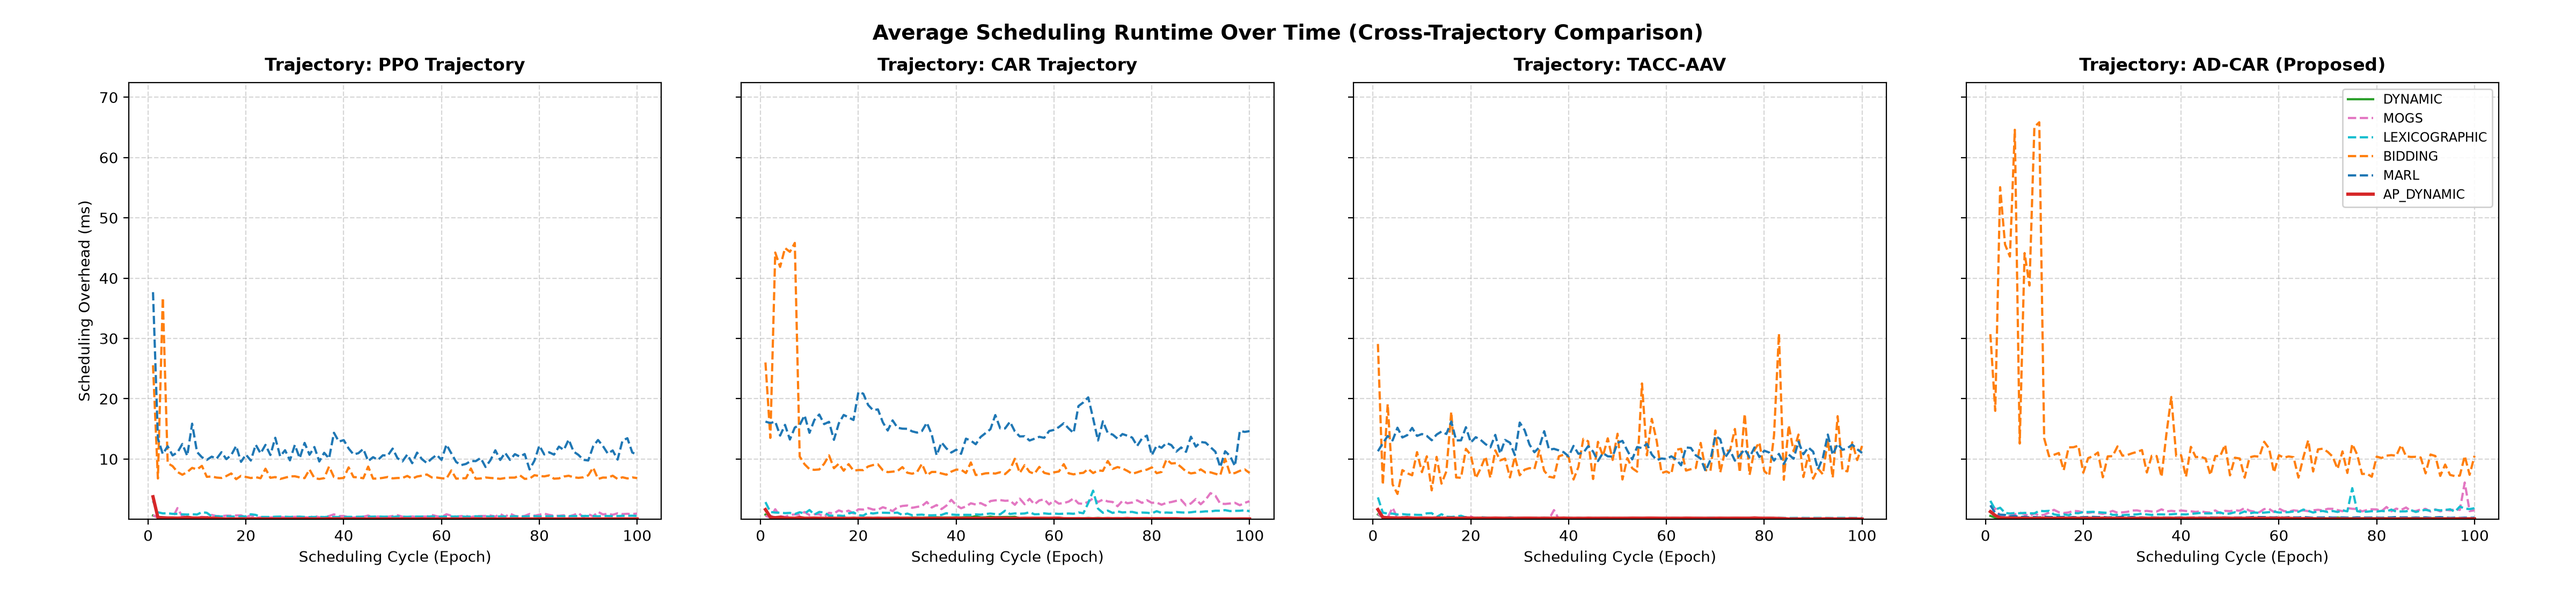
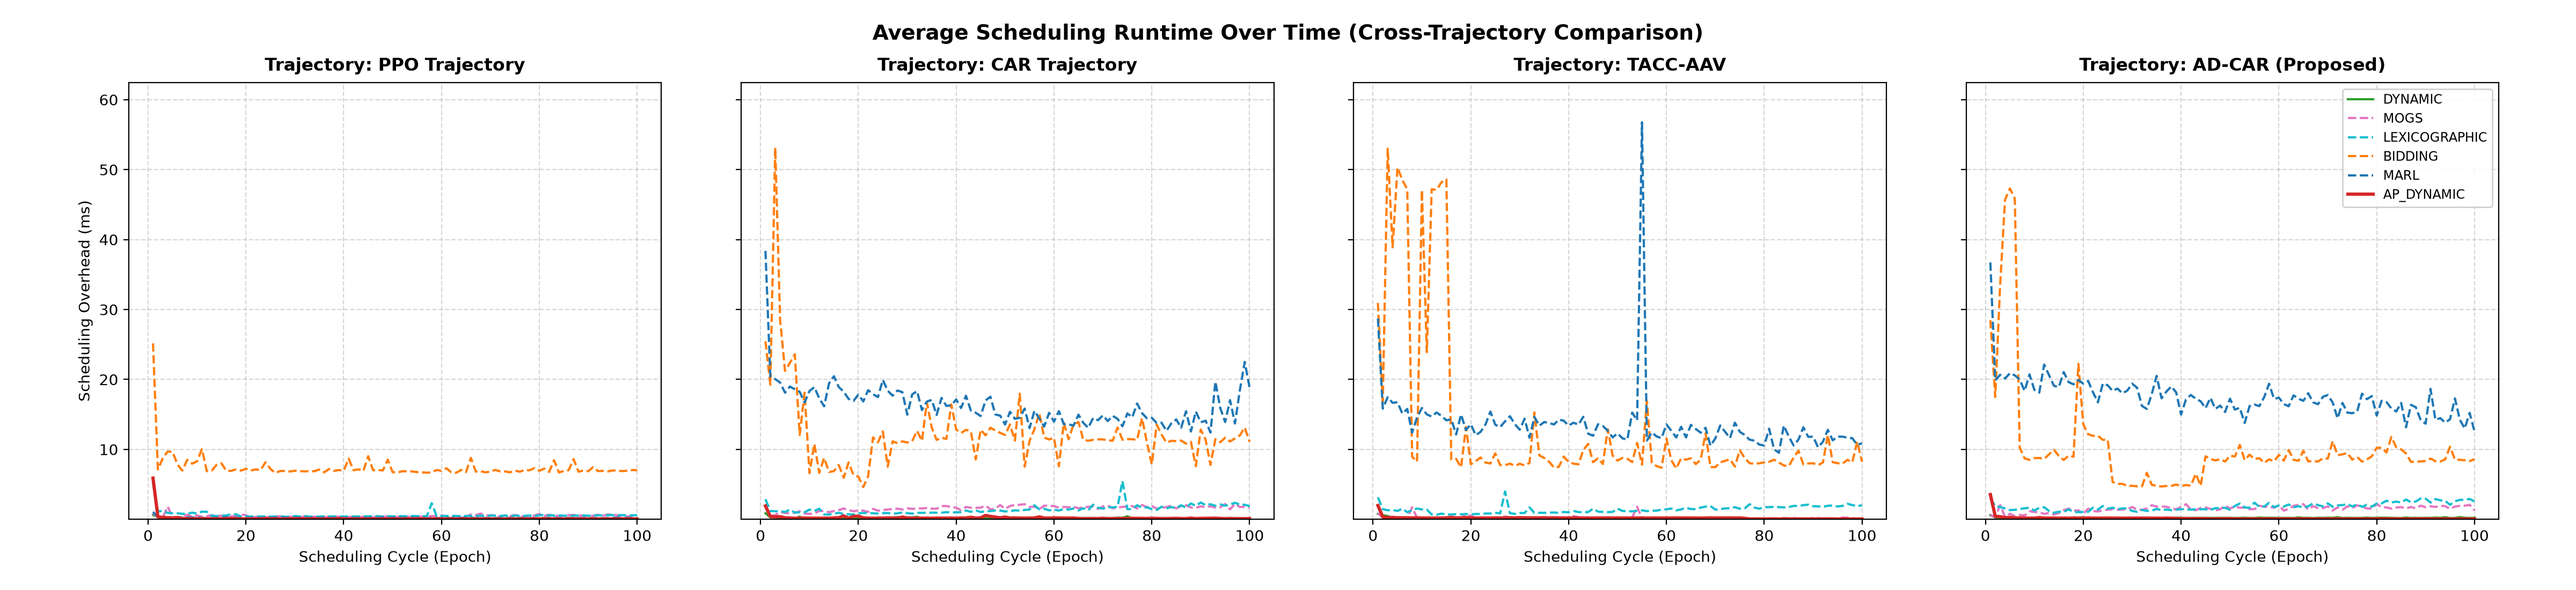
feat(benchmarks): regenerate all 24 trajectory-scheduler comparisons and maps under realistic urban MD distribution

diff --git a/trajectory_map_generator.py b/trajectory_map_generator.py
@@ -51,25 +51,79 @@ def parse_simulation_trajectories(log_path: str) -> dict[str, list[tuple[float, 
 
 
 def generate_synthetic_scenario(seed: int = 42):
-    """Generates standard scenario layout matching FANETSimulation parameters."""
+    """Generates realistic structured spatial layout matching FANETSimulation parameters:
+    - 40% Urban Demand Hubs (4 regional clusters at (500,500), (1500,500), (500,1500), (1500,1500))
+    - 36% Arterial Transit Corridors connecting hubs with lateral jitter
+    - 24% Low-Discrepancy Peripheral Grid with spatial perturbation
+    """
     rng = np.random.default_rng(seed)
-    # 100 MDs clustered into 4 hot spots + uniform background
-    md_clusters = [
-        (400, 450, 180, 25),
-        (1550, 400, 160, 25),
-        (1450, 1500, 200, 25),
-        (500, 1550, 170, 25),
-    ]
+    num_mds = 100
+    hub_count = int(num_mds * 0.40)
+    corridor_count = int(num_mds * 0.36)
+    grid_count = num_mds - hub_count - corridor_count
+
+    hubs = np.array([
+        [500.0, 500.0],
+        [1500.0, 500.0],
+        [500.0, 1500.0],
+        [1500.0, 1500.0]
+    ])
+
+    corridor_starts = np.array([
+        [500.0, 500.0],
+        [500.0, 1500.0],
+        [500.0, 500.0],
+        [1500.0, 500.0],
+        [500.0, 500.0],
+    ])
+    corridor_ends = np.array([
+        [1500.0, 500.0],
+        [1500.0, 1500.0],
+        [500.0, 1500.0],
+        [1500.0, 1500.0],
+        [1500.0, 1500.0],
+    ])
+
     md_xs, md_ys = [], []
-    for cx, cy, radius, count in md_clusters:
-        angles = rng.uniform(0, 2 * np.pi, count)
-        rads = rng.normal(0, radius * 0.45, count)
-        md_xs.extend(np.clip(cx + rads * np.cos(angles), 50, MAP_BOUND - 50))
-        md_ys.extend(np.clip(cy + rads * np.sin(angles), 50, MAP_BOUND - 50))
+
+    # 1. Urban Hubs
+    for i in range(hub_count):
+        h_idx = i % 4
+        x = hubs[h_idx, 0] + rng.normal(0, 130.0)
+        y = hubs[h_idx, 1] + rng.normal(0, 130.0)
+        md_xs.append(np.clip(x, 50, MAP_BOUND - 50))
+        md_ys.append(np.clip(y, 50, MAP_BOUND - 50))
+
+    # 2. Corridors
+    for i in range(corridor_count):
+        c_idx = i % 5
+        t = rng.uniform(0.0, 1.0)
+        lateral = rng.normal(0, 35.0)
+        dx = corridor_ends[c_idx, 0] - corridor_starts[c_idx, 0]
+        dy = corridor_ends[c_idx, 1] - corridor_starts[c_idx, 1]
+        length = np.hypot(dx, dy)
+        norm_x = -dy / length
+        norm_y = dx / length
+        x = corridor_starts[c_idx, 0] + t * dx + lateral * norm_x
+        y = corridor_starts[c_idx, 1] + t * dy + lateral * norm_y
+        md_xs.append(np.clip(x, 50, MAP_BOUND - 50))
+        md_ys.append(np.clip(y, 50, MAP_BOUND - 50))
+
+    # 3. Peripheral Grid
+    cell_w = MAP_BOUND / 5.0
+    cell_h = MAP_BOUND / 5.0
+    for i in range(grid_count):
+        gx = i % 5
+        gy = (i // 5) % 5
+        x = (gx + 0.15 + 0.70 * rng.uniform(0.0, 1.0)) * cell_w
+        y = (gy + 0.15 + 0.70 * rng.uniform(0.0, 1.0)) * cell_h
+        md_xs.append(np.clip(x, 50, MAP_BOUND - 50))
+        md_ys.append(np.clip(y, 50, MAP_BOUND - 50))
+
     mds = np.column_stack((md_xs, md_ys))
 
     # 30 UAV initial positions scattered across map
-    uav_starts = rng.uniform(100, MAP_BOUND - 100, size=(30, 2))
+    uav_starts = rng.uniform(150, MAP_BOUND - 150, size=(30, 2))
     return mds, uav_starts
 
 
@@ -81,7 +135,7 @@ def simulate_ppo_trajectories(mds, uav_starts, steps: int = 60):
     for idx in sample_indices:
         pos = np.array(uav_starts[idx], dtype=float)
         path = [pos.copy()]
-        cov_rad = 90.0
+        cov_rad = 110.0
         for _ in range(steps):
             # Compute MD density vector towards nearby devices
             diffs = mds - pos
@@ -102,12 +156,12 @@ def simulate_ppo_trajectories(mds, uav_starts, steps: int = 60):
 def simulate_car_trajectories(mds, uav_starts):
     """Simulates CAR adaptive region partitioning, cluster centroids, and pointer-net tour routes."""
     rng = np.random.default_rng(101)
-    # Define 4 partitioned clusters matching Otsu / density regions
+    # Define 4 partitioned clusters matching the 4 realistic urban hubs
     cluster_centers = [
-        np.array([420.0, 480.0]),
-        np.array([1520.0, 430.0]),
-        np.array([1420.0, 1480.0]),
-        np.array([530.0, 1520.0]),
+        np.array([500.0, 500.0]),
+        np.array([1500.0, 500.0]),
+        np.array([1500.0, 1500.0]),
+        np.array([500.0, 1500.0]),
     ]
     uav_tours = []
     sample_uavs = [(1, 0), (8, 1), (15, 2), (23, 3)]
@@ -115,12 +169,12 @@ def simulate_car_trajectories(mds, uav_starts):
         start_pos = uav_starts[uav_idx].copy()
         center = cluster_centers[cluster_idx]
         
-        # Cluster waypoints around centroid
+        # Cluster waypoints along demand corridors and around centroid
         wp_offsets = [
-            np.array([-90.0, -80.0]),
-            np.array([80.0, -100.0]),
-            np.array([110.0, 90.0]),
-            np.array([-60.0, 110.0]),
+            np.array([-110.0, -80.0]),
+            np.array([120.0, -90.0]),
+            np.array([130.0, 110.0]),
+            np.array([-80.0, 120.0]),
             np.array([0.0, 0.0]),
         ]
         waypoints = [center + off for off in wp_offsets]
@@ -137,7 +191,7 @@ def simulate_car_trajectories(mds, uav_starts):
             for t in np.linspace(0, 1, num_pts, endpoint=False):
                 path.append(p1 + t * (p2 - p1))
         path.append(tour_order[-1])
-        uav_tours.append((f"uav_{uav_idx}", path, waypoints, 85.0))
+        uav_tours.append((f"uav_{uav_idx}", path, waypoints, 110.0))
     return uav_tours, cluster_centers
 
 
